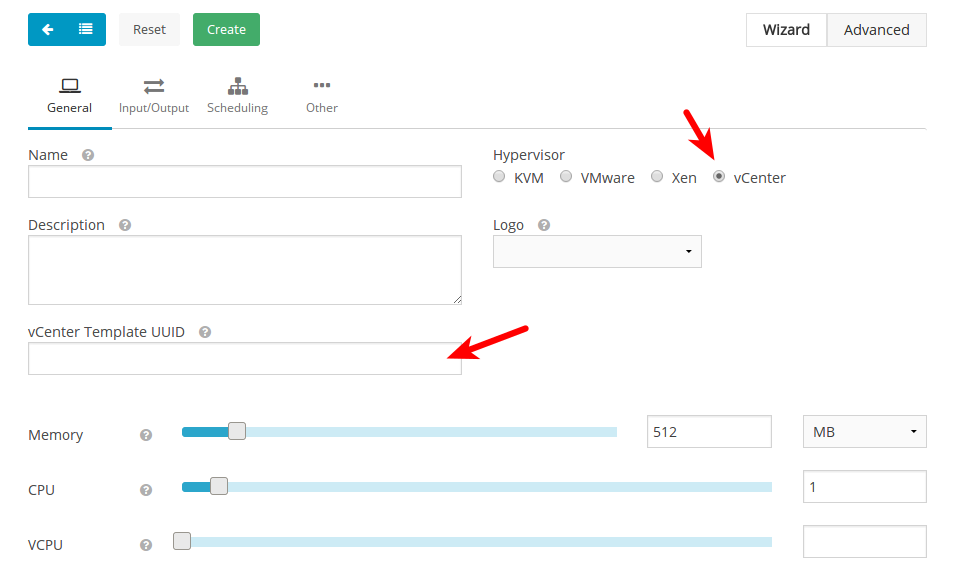
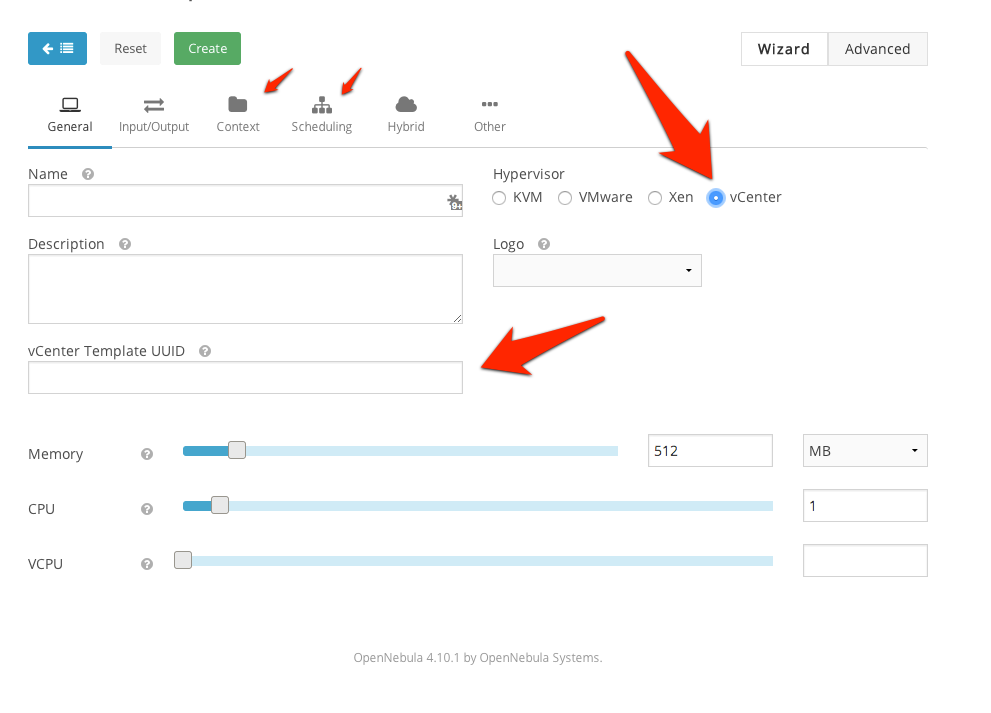
Add contextualization section

diff --git a/docs/source/release_notes/limitations.rst b/docs/source/release_notes/limitations.rst
@@ -4,24 +4,21 @@
 vOneCloud Limitations
 =====================
 
-vOneCloud will use pre defined Templates existing in the vCenter to launch Virtual Machines, as such the following limitations apply:
+vOneCloud will use pre defined Templates existing in the vCenter to launch Virtual Machines. The following limitations apply:
 
-+----------------------------------------------+--------------------------------------------------------------------+
-| **No Files Support in VM Contextualization** | Passing entire files to VMs is not supported,                      |
-|                                              | but all the other CONTEXT sections will be honored                 |
-+----------------------------------------------+--------------------------------------------------------------------+
-| **VM Unsupported Operations**                | The following operations are NOT supported on vCenter VMs          |
-|                                              | managed by OpenNebula, although they can be perfomed               |
-|                                              | through vCenter                                                    |
-|                                              | - Attach/detach disk to a running VM                               |
-|                                              | - Attach/detach network interface to a running VM                  |
-|                                              | - Migrate VM to different ESX clusters                             |
-+----------------------------------------------+--------------------------------------------------------------------+
-| **No Security Groups**                       | Firewall rules as defined in Security Groups cannot be enforced in |
-|                                              | vCenter VMs.                                                       |
-+----------------------------------------------+--------------------------------------------------------------------+
-| **No MultivCenter Templates**                | vOneCloud Templates representing two or more vCenter VM            |
-|                                              | Templates cannot currently be defined.                             |
-+----------------------------------------------+--------------------------------------------------------------------+
++----------------------------------------------+--------------------------------------------------------------------------------------------------+
+| **No Automatic Guest Configuration**         | :ref:`Contextualization <build_template_context>` mechanism in vOneCloud does not provide        |
+|                                              | packages to automatically configure guest OS (Linux or Windows)                                  |
++----------------------------------------------+--------------------------------------------------------------------------------------------------+
+| **VM Unsupported Operations**                | The following operations are only supported from vCenter:                                        |
+|                                              | - Attach/detach disk to a running VM                                                             |
+|                                              | - Attach/detach network interface to a running VM                                                |
+|                                              | - Migrate VM to different ESX clusters                                                           |
++----------------------------------------------+--------------------------------------------------------------------------------------------------+
+| **No MultivCenter Templates**                | vOneCloud Templates representing two or more vCenter VM                                          |
+|                                              | Templates cannot currently be defined.                                                           |
++----------------------------------------------+--------------------------------------------------------------------------------------------------+
 
-These limitations will be addressed in future versions of vOneCloud.
+These limitations will be addressed in future versions of vOneCloud. The vOneCloud roadmap can be consulted in the `OpenNebula development portal <http://dev.opennebula.org/projects/opennebula/issues?query_id=61>`__.
+
+If you feel that there is a particular feature interesting for the general public and it is missing from the roadmap, feel free to add a feature request in the development portal (via the New Issue tab).

diff --git a/docs/source/infrastructure_configuration/add_new_vcenter.rst b/docs/source/infrastructure_configuration/add_new_vcenter.rst
@@ -8,17 +8,6 @@ vOneCloud can manage an unlimited number of vCenters. Each vCenter is going to b
 
 The suggested usage is to build vOneCloud templates for each VM Template in each vCenter. The built in scheduler in vOneCloud will decide which vCenter has the VM Template needed to launch the VM.
 
-.. _contextualization:
-
-In order to pass information to the instantiated VM template, the Context section of the vOneCloudVM Template can be used. All kinds of text data can be passed onto the VM, to be used for network set-up, user creation, ssh credentials injection, applications licensing, and so on. This information (encoded in base64) is then presented within the VM through the VMware Tools, and is used by the vOneCloud contextualization packages to perform network setup and other administration tasks. Also, it can be used to pass any arbitrary data, that can be consumed in the guest through the following command (in linux guests):
-
-.. code::
-
-   vmtoolsd --cmd 'info-get guestinfo.opennebula.context' | base64 -d
-
-.. image:: /images/vm_template_context.png
-    :align: center
-
 The mechanism to add a new vCenter is exactly the same as the one used to :ref:`import the first one into vOneCloud <import_vcenter>`. It can be performed graphically from the vCenter View:
 
 .. image:: /images/add_new_vcenter.png
@@ -30,13 +19,15 @@ The mechanism to add a new vCenter is exactly the same as the one used to :ref:`
 
    vOneCloud will create a special key at boot time and save it in /var/lib/one/.one/one_key. This key will be used as a private key to encrypt and decrypt all the passwords for all the vCenters that vOneCloud can access. Thus, the password shown in the vOneCloud host representing the vCenter is the original password encrypted with this special key.
 
-Everything is clearer with an example, so here we go:
+.. _add_new_vm_template:
+
+To create a new vOneCloud VM Template, let's see an example:
 
   Firsts things first, to avoid misunderstandings, there are two VM templates we will refer to: the vOneCloud VM Templates and the vCenter VM Templates. The formers are created in the vOneCloud web interface (Sunstone), whereas the latters are created directly through the vCenter Web Client.
 
-  A cloud administrator builds two vOneCloud templates to represent one vCenter VM Template avaiable in vCenterA and another available in vCenterB. As previous work, the cloud administrator creates `two vCenter VM templates <https://pubs.vmware.com/vsphere-50/index.jsp?topic=%2Fcom.vmware.vsphere.vm_admin.doc_50%2FGUID-40BC4243-E4FA-4A46-8C8B-F50D92C186ED.html>`__, one in each vCenter.
+  A cloud administrator builds two vOneCloud templates to represent one vCenter VM Template avaiable in vCenterA and another available in vCenterB. As previous work, the cloud administrator creates `two vCenter VM templates <https://pubs.vmware.com/vsphere-50/index.jsp?topic=%2Fcom.vmware.vsphere.vm_admin.doc_50%2FGUID-40BC4243-E4FA-4A46-8C8B-F50D92C186ED.html>`__, one in each vCenter. 
 
-  To create a vOneCloud VM template representing a vCloud vM Template, log in into Sunstone as **vOneCloud** user as in explained :ref:`here <download_and_deploy>`, proceed to the ``Virtual Resources -> Templates``, and click on the **+** sign. Select *vCenter* as the hypervisor, and type in the *vCenter Template UUID*. In the *Scheduling* tab you can select the hostname of the specific vCenter.
+  To create a vOneCloud VM template representing a vCloud VM Template, log in into Sunstone as **vOneCloud** user as in explained :ref:`here <download_and_deploy>`, proceed to the ``Virtual Resources -> Templates``, and click on the **+** sign. Select *vCenter* as the hypervisor, and type in the *vCenter Template UUID*. In the *Scheduling* tab you can select the hostname of the specific vCenter. The *Context* tab allows to pass information onto the VM to tailor it for its final use (read more about it :ref:`here <build_template_context>`).
 
   .. image:: /images/vcenter_wizard.png
     :align: center

diff --git a/docs/source/simple_cloud_deployment/interfaces.rst b/docs/source/simple_cloud_deployment/interfaces.rst
@@ -11,12 +11,20 @@ Web Interface (Sunstone)
 
 vOneCloud web interface, called Sunstone, offers three main views:
 
-- `Sunstone vCenter view <http://docs.opennebula.org/4.10/administration/sunstone_gui/suns_views.html#vcenter-view>`__: Aimed at cloud administrators, this view is tailored to present all the available options to manage the physical and virtual aspects of your vCenter infrastructure. 
+- `Sunstone vCenter view <http://docs.opennebula.org/4.10/administration/sunstone_gui/suns_views.html#vcenter-view>`__: Aimed at cloud administrators, this view is tailored to present all the available options to manage the physical and virtual aspects of your vCenter infrastructure.
+
+.. image:: /images/vcenter_view.png
+    :align: center
 
 - `Sunstone VDC Admin View <http://docs.opennebula.org/4.10/administration/sunstone_gui/vdc_admin_view.html>`__: Aimed at Virtual Datacenter administrators, this interface is designed to manage all the virtual resources of the VDC, including the creation of new users.
 
+.. image:: /images/vdcadmin_dash.png
+    :align: center
+
 - `Sunstone Cloud View <http://docs.opennebula.org/4.10/administration/sunstone_gui/cloud_view.html>`__: Aimed at end users, this interface eases virtual resource provisioning and hides all the complexity of the cloud that is going on behind the scenes.
 
+.. image:: /images/cloud_dash.png
+    :align: center
 
 Command Line Interface (CLI)
 ----------------------------

diff --git a/docs/source/simple_cloud_deployment/import_vcenter.rst b/docs/source/simple_cloud_deployment/import_vcenter.rst
@@ -38,7 +38,7 @@ In the dialog that pops up, select vCenter as Type in the dropdown. You now need
 
 After the vCenter cluster is selected in Step 2, a list of vCenter VM templates will be presented to be imported into vOneCloud. Select all the templates you want to import, and vOneCloud will generate vOneCloud VM template resources representing the vCenter VM templates.
 
-These vOneCloud VM templates can be edited to add information to be passed into the instantiated VM. This process is called :ref:`Contextualization <contextualization>`.
+These vOneCloud VM templates can be edited to add information to be passed into the instantiated VM. This process is called :ref:`Contextualization <build_template_context>`.
 
 .. note:: The vCenter VM Templates can be imported regardless of their position inside VM Folders, since vOneCloud will search recursively for them.
 

diff --git a/docs/source/release_notes/whats_new.rst b/docs/source/release_notes/whats_new.rst
@@ -12,4 +12,4 @@ Additionally, three new features were introduced in this stable release:
 
 - :ref:`Ability to search for VM templates recursively <acquire_resources>`. Do not miss a VM Template!
 - :ref:`VCenter password encrypted in vOneCloud host templates <encrypt_key>`. Protect your infrastructure.
-- :ref:`Contextualization for vCenter VMs <contextualization>`. Pass information (licenses, ssh keys, networking information) onto your vCenter VMs through vOneCloud.
+- :ref:`Contextualization for vCenter VMs <build_template_context>`. Pass information (licenses, ssh keys, networking information) onto your vCenter VMs through vOneCloud.

diff --git a/docs/source/simple_cloud_deployment/index.rst b/docs/source/simple_cloud_deployment/index.rst
@@ -10,6 +10,3 @@ Simple Cloud Deployment
    Import Existing vCenter <import_vcenter>
    Create a Virtual Data Center <create_vdc>
    Interfaces <interfaces>
-   vCenter View <vcenter_view>
-   VDC Admin View <vdc_admin_view>
-   Cloud View <cloud_view>

diff --git a/docs/source/index.rst b/docs/source/index.rst
@@ -9,4 +9,5 @@ vOneCloud Documentation
    release_notes/index
    simple_cloud_deployment/index
    security_and_resource_consumption_control/index
+   guest_configuration/index
    infrastructure_configuration/index
